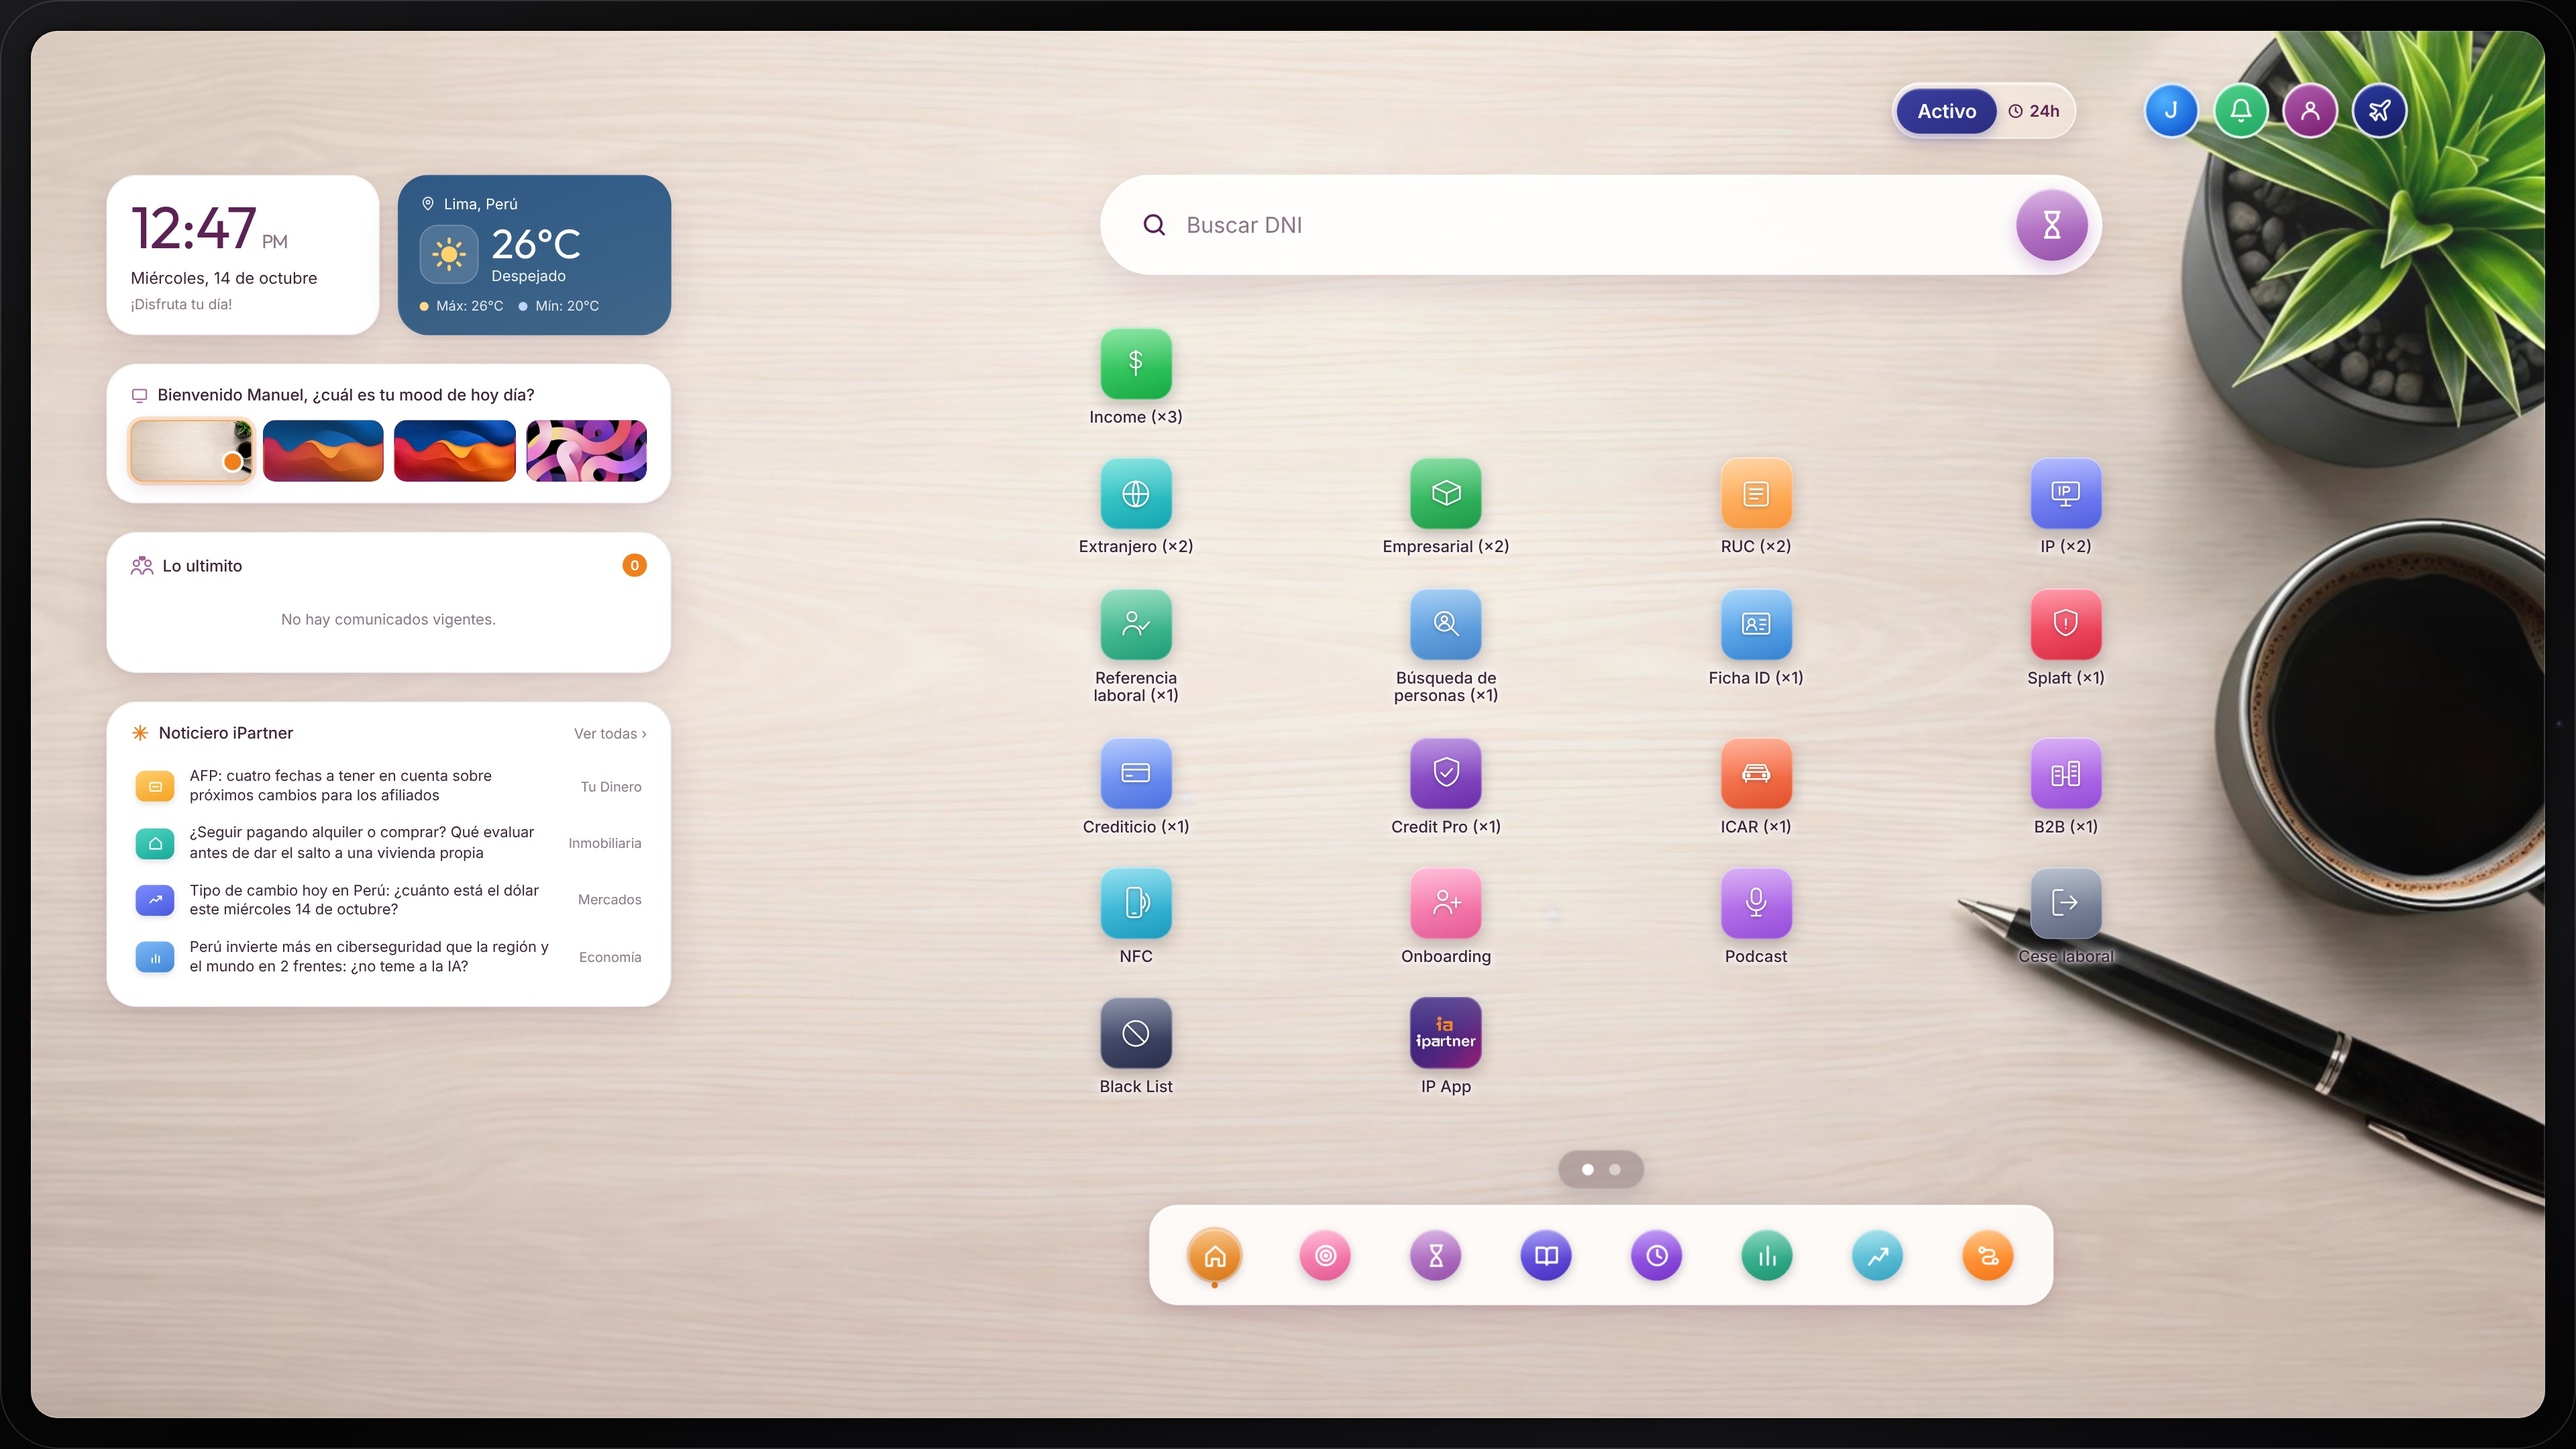
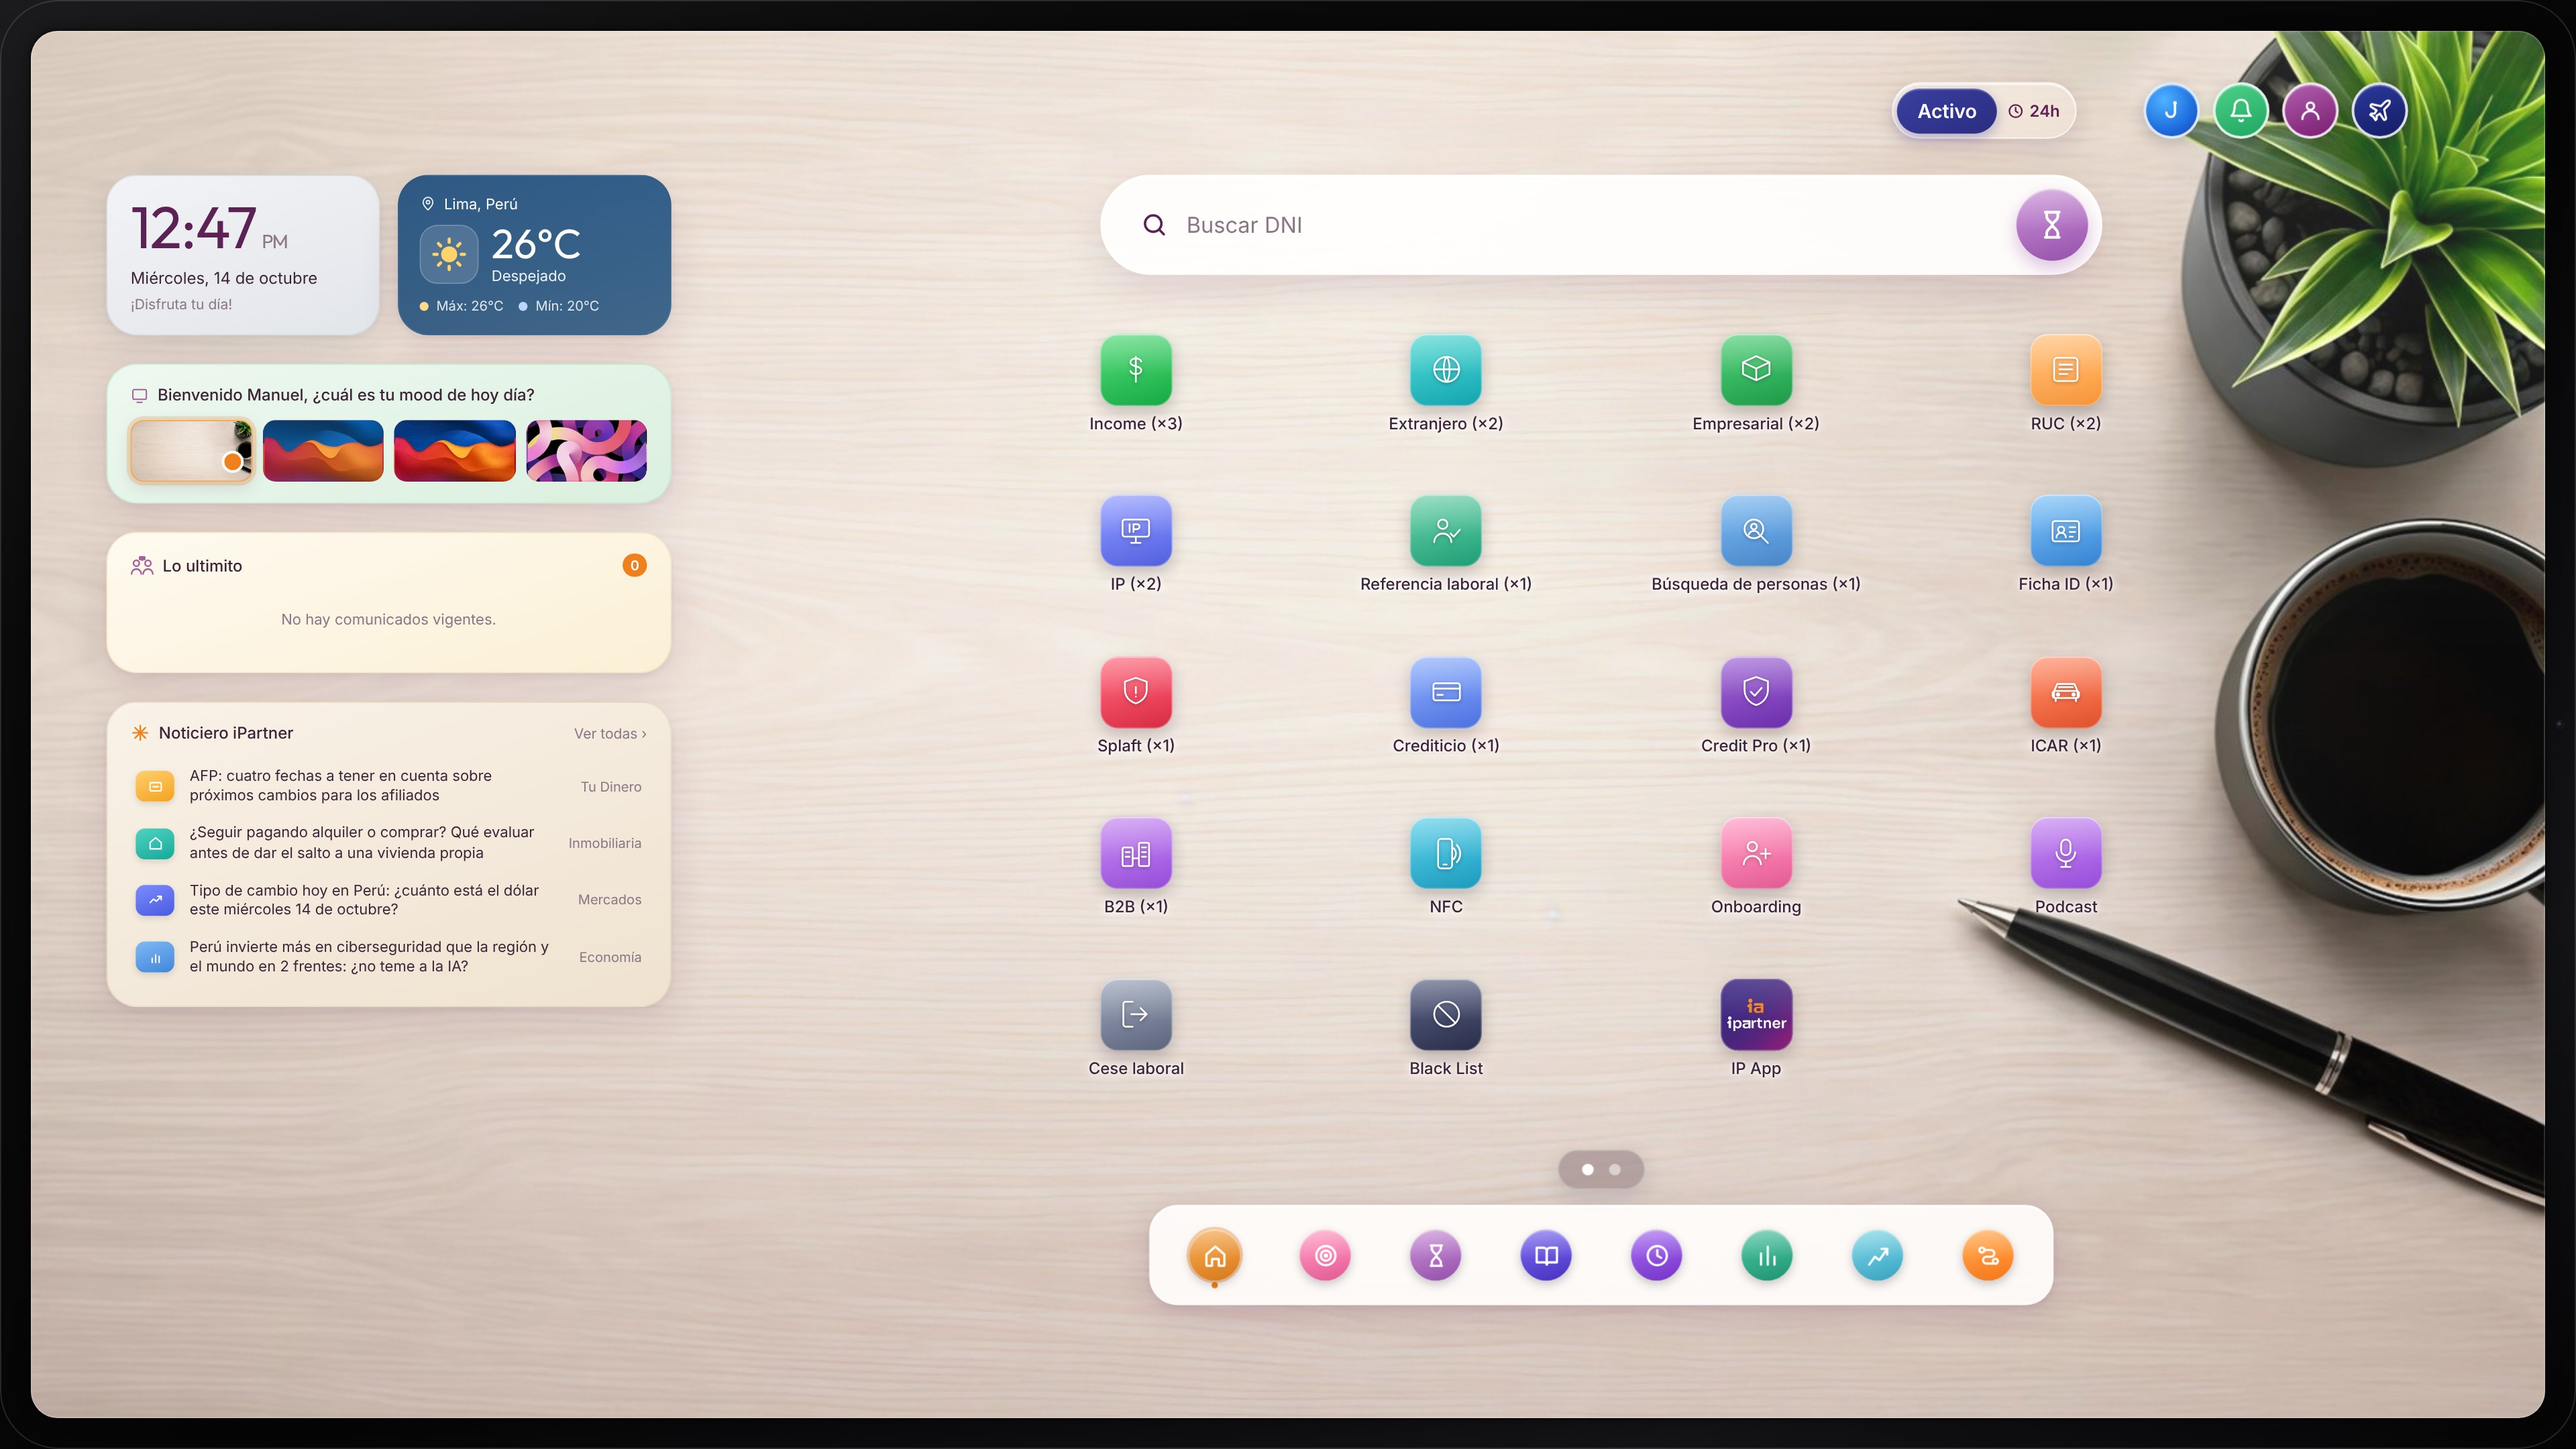
Home: feedback de 4x5 íconos en una línea y color en las tarjetas
Primera pantalla de 20 íconos (4 por fila, 5 filas) en grilla continua
con nombres en una sola línea; 46px parejos entre filas. Tarjetas con
color: Reloj plomo, Mood verde, Lo ultimito crema y Noticias beige.
Capturas actualizadas.

Claude-Session: https://claude.ai/code/session_01KT8NTYu2Ge9wagQ7cc8Njn

diff --git a/home/ipartner-home.html b/home/ipartner-home.html
@@ -1075,6 +1075,18 @@ header{position:relative;z-index:20}
 /* Íconos al mismo margen que la barra de búsqueda */
 .pagina{padding-left:0!important;padding-right:0!important}
 
+/* ===== Feedback jefe 1: 4 íconos × 5 filas (20), nombres en una sola línea, grilla continua ===== */
+.chip-lbl{white-space:nowrap!important;width:auto!important;max-width:none!important;min-height:0!important}
+.pagina{align-items:start!important}
+
+/* ===== Feedback jefe 2: color en las tarjetas ===== */
+.card.reloj{background:linear-gradient(160deg,#f2f3f6,#e2e5ea)!important;border-color:rgba(60,70,90,.08)!important;box-shadow:0 10px 30px rgba(60,70,90,.12),0 2px 6px rgba(60,70,90,.06)!important}
+.card-mood{background:linear-gradient(160deg,#eef8f0,#dbf0df)!important;border-color:rgba(46,158,82,.12)!important}
+.card.novedades{background:linear-gradient(160deg,#fffaf0,#fbf0d6)!important;border-color:rgba(200,160,60,.14)!important}
+.card.noticiero{background:linear-gradient(160deg,#f9f2e8,#efe2cf)!important;border-color:rgba(150,110,60,.12)!important}
+.noticia:hover{background:rgba(255,255,255,.55)!important}
+.pagina{row-gap:48px!important}.paginas{margin-top:42px!important}
+
 </style>
 </head>
 <body data-tema="degradado">
@@ -1248,11 +1260,11 @@ header{position:relative;z-index:20}
       <div class="paginas" id="lienzo" tabindex="-1">
         <div class="pista" id="pista">
       <div class="pagina" role="group" aria-label="Pantalla 1">
-        <button class="chip-app k-income fila-nueva" data-id="income" aria-label="Income, consume 3 consultas" title="Income (×3)">
+        <button class="chip-app k-income" data-id="income" aria-label="Income, consume 3 consultas" title="Income (×3)">
           <span class="chip-ico"><svg viewBox="0 0 48 48" fill="none" stroke="#fff" stroke-width="2.2" stroke-linecap="round" stroke-linejoin="round"><path d="M24 8v32"/><path d="M31 14a7 5 0 0 0-7-4c-4 0-7 2-7 5s3 4 7 5 7 2 7 5-3 5-7 5a7 5 0 0 1-7-4"/></svg></span>
           <span class="chip-lbl">Income <span class="chip-mult">(×3)</span></span>
         </button>
-        <button class="chip-app k-mundo fila-nueva" data-id="extranjero" aria-label="Extranjero, consume 2 consultas" title="Extranjero (×2)">
+        <button class="chip-app k-mundo" data-id="extranjero" aria-label="Extranjero, consume 2 consultas" title="Extranjero (×2)">
           <span class="chip-ico"><svg viewBox="0 0 48 48" fill="none" stroke="#fff" stroke-width="2.2" stroke-linecap="round" stroke-linejoin="round"><circle cx="24" cy="24" r="16"/><path d="M8 24h32M24 8c5 5 5 27 0 32M24 8c-5 5-5 27 0 32"/></svg></span>
           <span class="chip-lbl">Extranjero <span class="chip-mult">(×2)</span></span>
         </button>
@@ -1268,7 +1280,7 @@ header{position:relative;z-index:20}
           <span class="chip-ico"><svg viewBox="0 0 48 48" fill="none" stroke="#fff" stroke-width="2.2" stroke-linecap="round" stroke-linejoin="round"><rect x="7" y="9" width="34" height="22" rx="3"/><path d="M18 39h12M24 31v8"/><path d="M16 15v10M21 25V15h4.5a3.2 3.2 0 0 1 0 6.4H21"/></svg></span>
           <span class="chip-lbl">IP <span class="chip-mult">(×2)</span></span>
         </button>
-        <button class="chip-app k-refer fila-nueva" data-id="referencia-laboral" aria-label="Referencia laboral, consume 1 consulta" title="Referencia laboral (×1)">
+        <button class="chip-app k-refer" data-id="referencia-laboral" aria-label="Referencia laboral, consume 1 consulta" title="Referencia laboral (×1)">
           <span class="chip-ico"><svg viewBox="0 0 48 48" fill="none" stroke="#fff" stroke-width="2.2" stroke-linecap="round" stroke-linejoin="round"><circle cx="19" cy="15" r="6"/><path d="M8 38a11 11 0 0 1 22 0"/><path d="m29 27 4 4 8-9"/></svg></span>
           <span class="chip-lbl">Referencia laboral <span class="chip-mult">(×1)</span></span>
         </button>
@@ -1300,7 +1312,7 @@ header{position:relative;z-index:20}
           <span class="chip-ico"><svg viewBox="0 0 48 48" fill="none" stroke="#fff" stroke-width="2.2" stroke-linecap="round" stroke-linejoin="round"><rect x="7" y="16" width="13" height="24" rx="2"/><rect x="28" y="10" width="13" height="30" rx="2"/><path d="M11 22h5M11 28h5M32 16h5M32 22h5M32 28h5M20 30h8"/></svg></span>
           <span class="chip-lbl">B2B <span class="chip-mult">(×1)</span></span>
         </button>
-        <button class="chip-app k-nfc fila-nueva" data-id="nfc" aria-label="NFC" title="NFC">
+        <button class="chip-app k-nfc" data-id="nfc" aria-label="NFC" title="NFC">
           <span class="chip-ico"><svg viewBox="0 0 48 48" fill="none" stroke="#fff" stroke-width="2.2" stroke-linecap="round" stroke-linejoin="round"><rect x="13" y="5" width="18" height="38" rx="4"/><path d="M33 17a10 10 0 0 1 0 14M37 13a16 16 0 0 1 0 22"/><path d="M20 38h4"/></svg></span>
           <span class="chip-lbl">NFC</span>
         </button>
